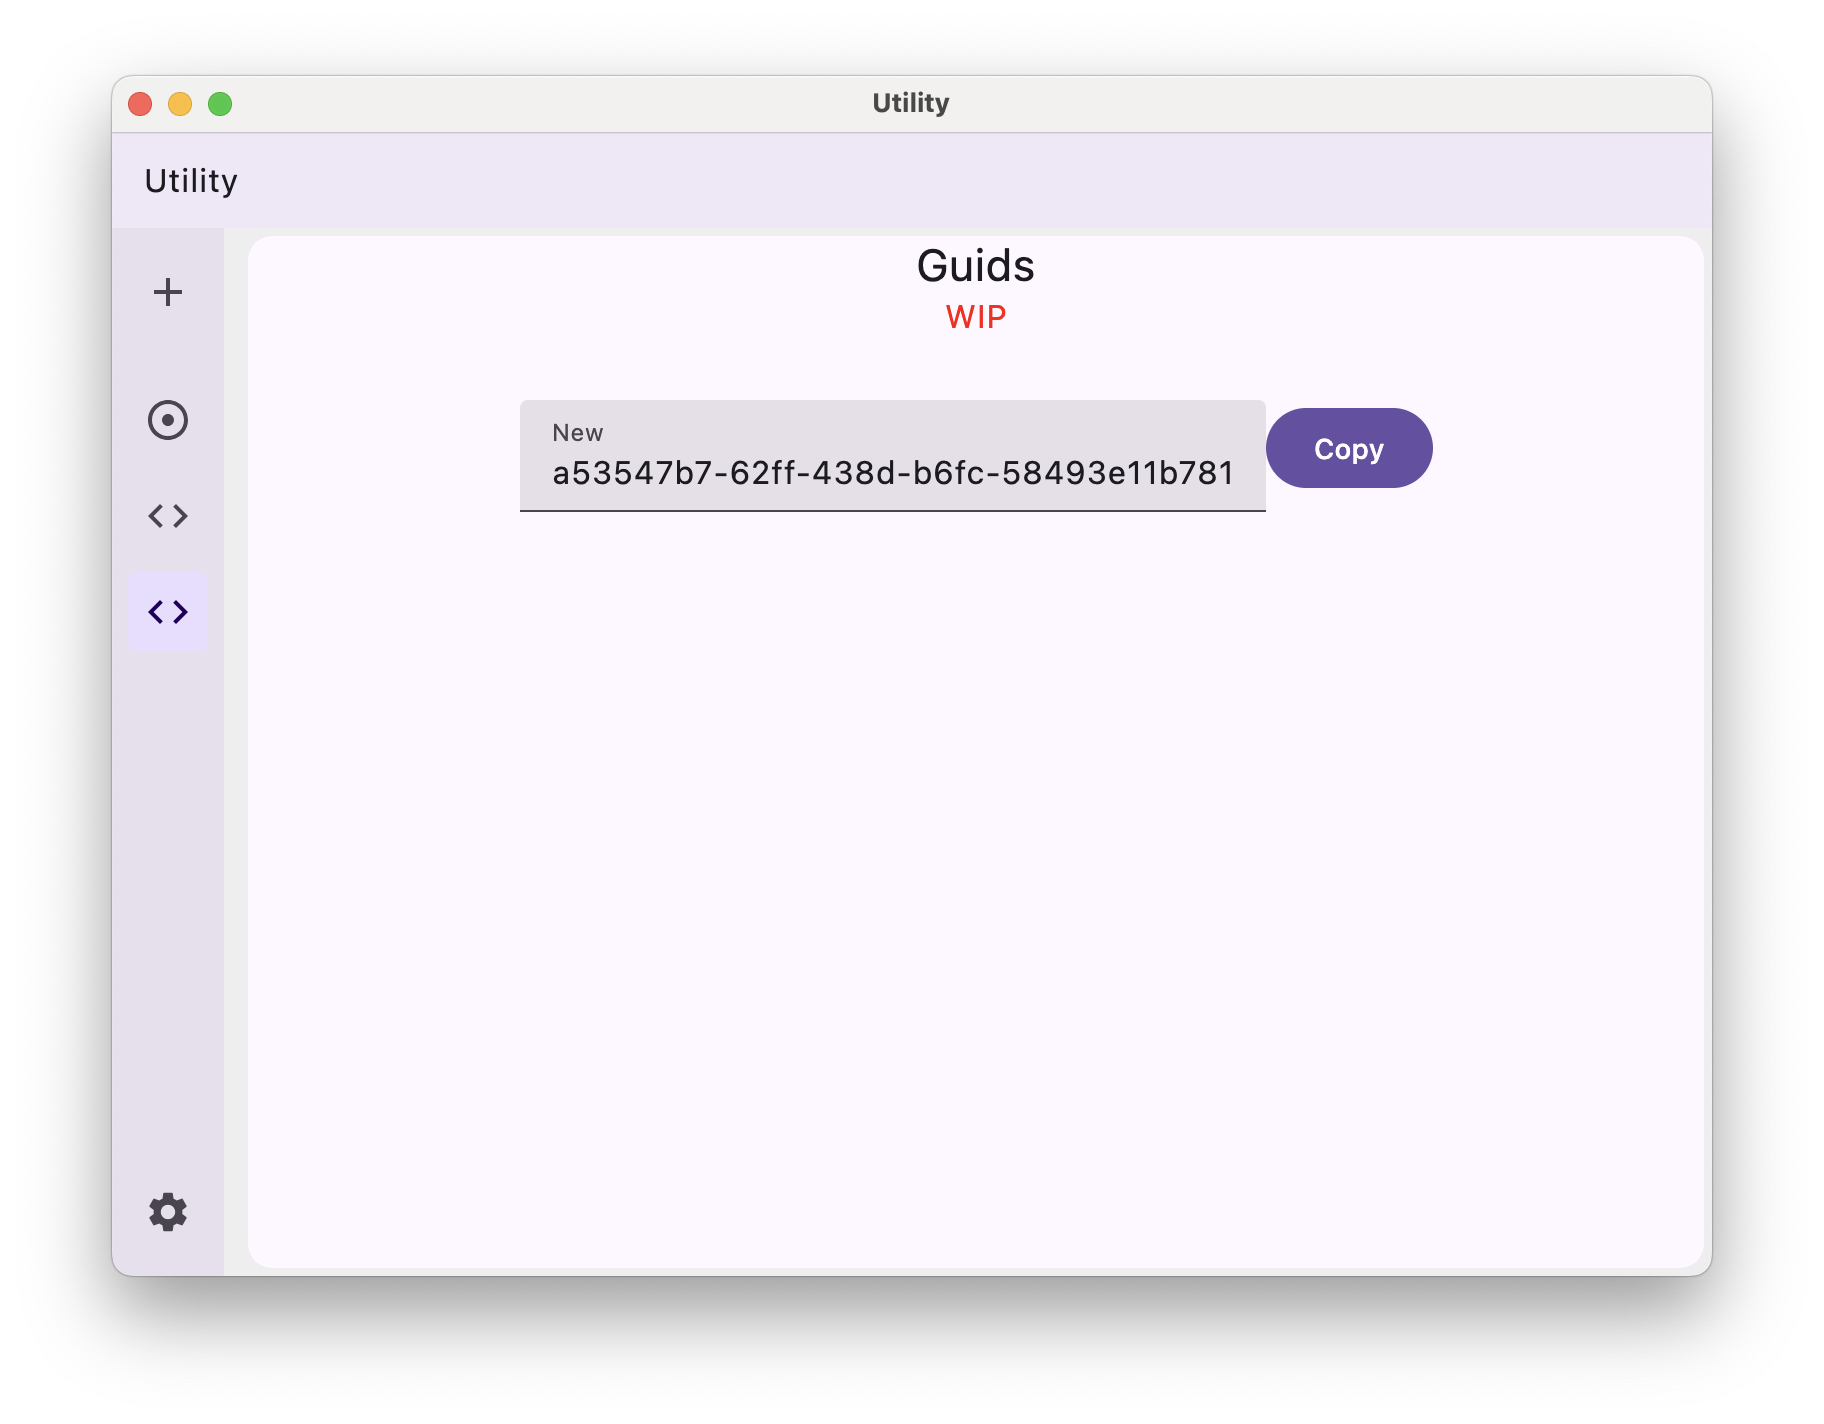
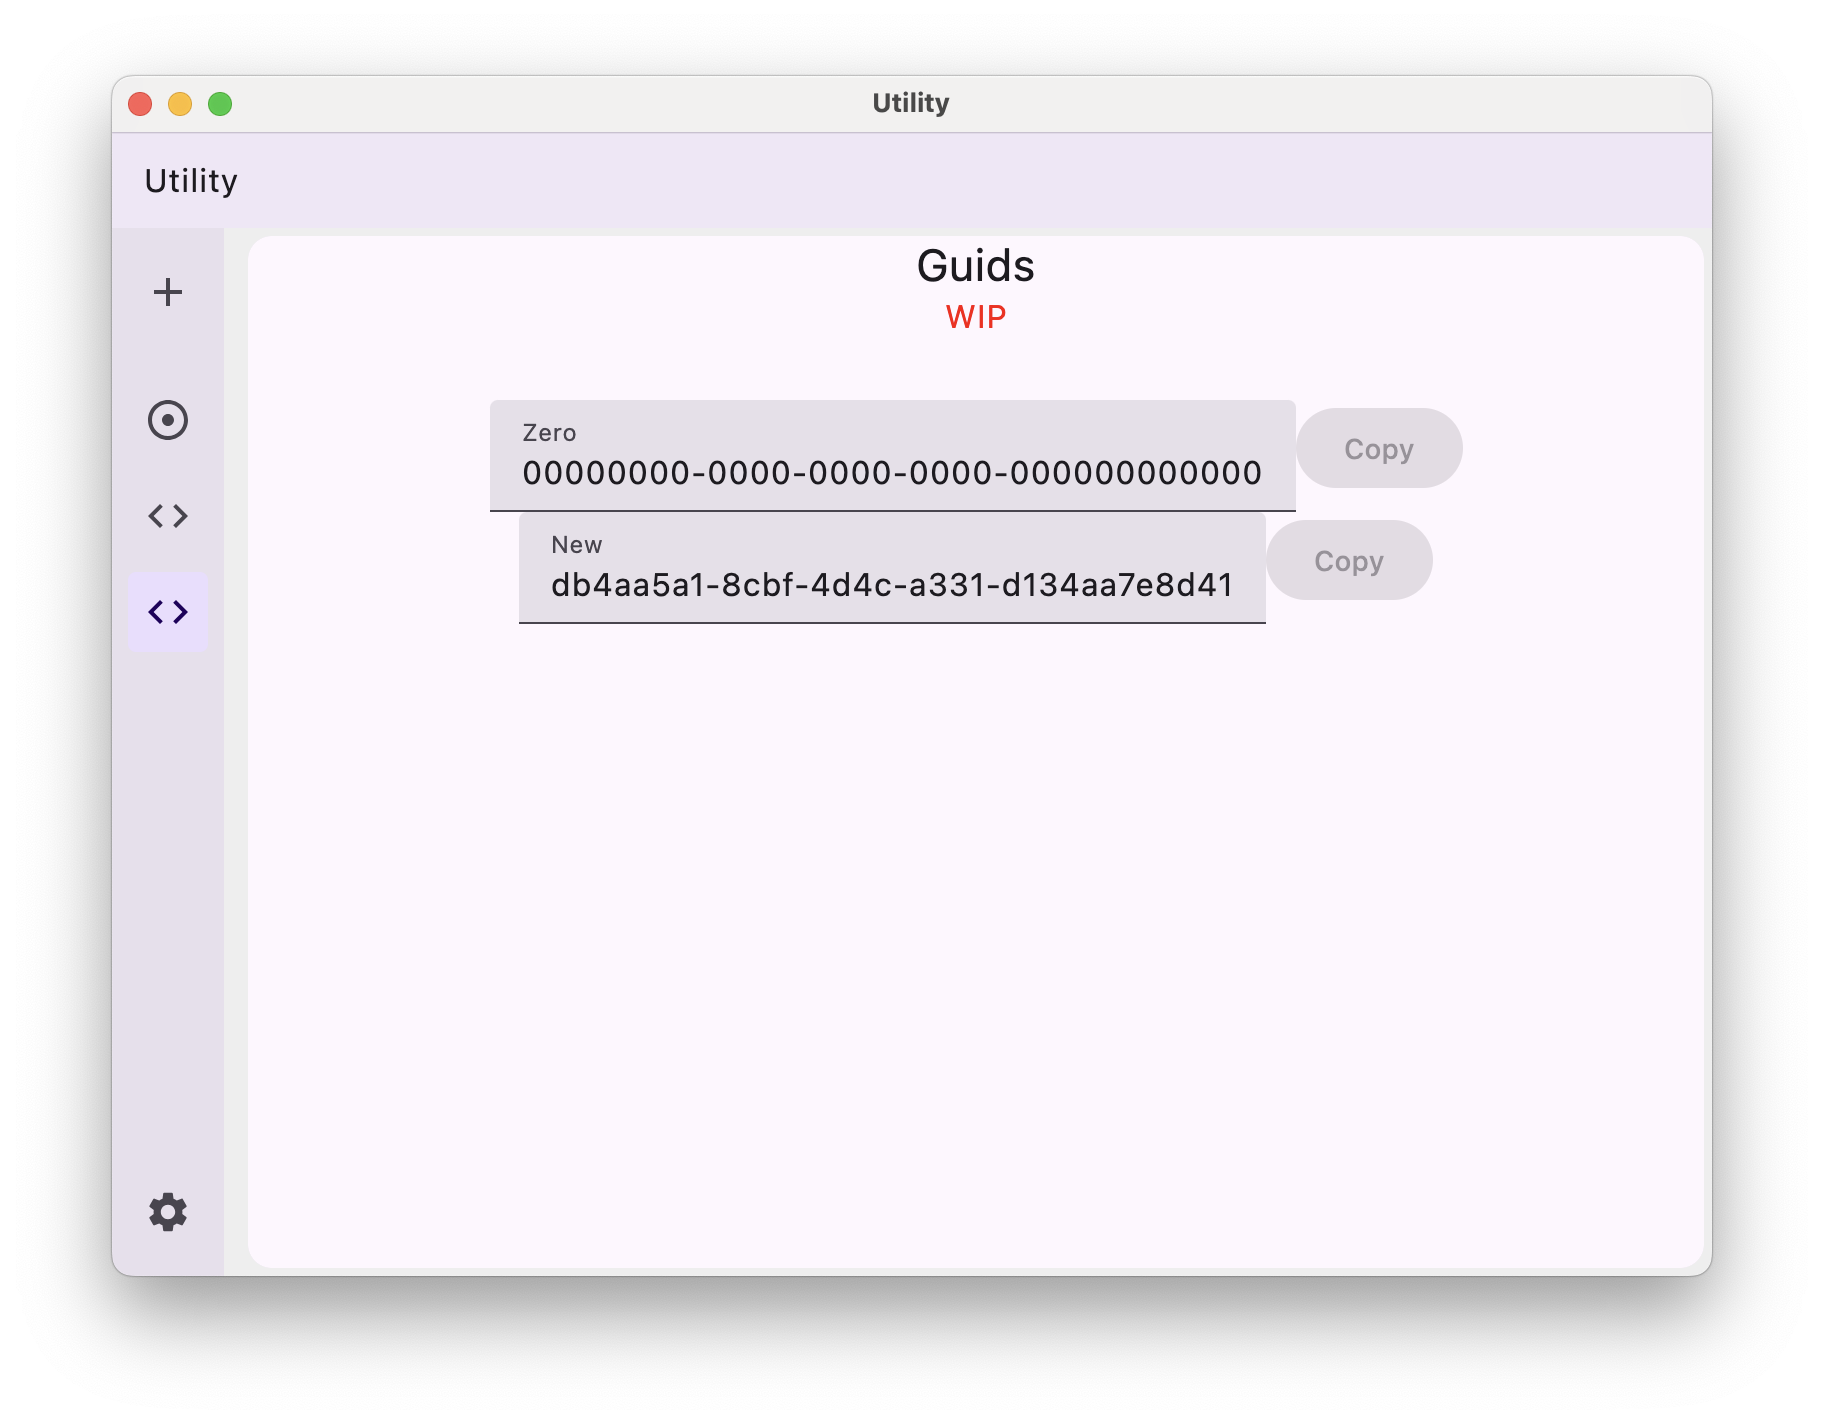
#12 add Zero guid, disable button(s)

Changed region(s): [[0.2812, 0.2781, 0.8125, 0.4326]]

diff --git a/src/composeApp/src/commonMain/kotlin/com/alexhedley/components/GuidView.kt b/src/composeApp/src/commonMain/kotlin/com/alexhedley/components/GuidView.kt
@@ -30,6 +30,7 @@ fun GuidView() {
     val clipboard = LocalClipboard.current
     var guid by remember { mutableStateOf("") }
     guid = Uuid.random().toString()
+    var guidZero by remember { mutableStateOf("00000000-0000-0000-0000-000000000000") }
 
     MaterialTheme {
         Column(
@@ -46,9 +47,35 @@ fun GuidView() {
             Row() {
                 Column() {
                     TextField(
+                        guidZero,
+                        onValueChange = { },
+                        placeholder = { Text(guidZero) },
+                        label = { Text("Zero") },
+                        readOnly = true
+                    )
+                }
+                Column() {
+                    Button(
+                        onClick = {
+                            // https://youtrack.jetbrains.com/issue/CMP-7624
+//                            clipboard.setText(AnnotatedString((guid)))
+//                            clipboard.getText()?.text?.let {
+//                                guid = it
+//                            }
+                        },
+                        enabled = false
+                    ){
+                        Text("Copy")
+                    }
+                }
+            }
+
+            Row() {
+                Column() {
+                    TextField(
                         guid,
                         onValueChange = { guid = it },
-                        placeholder = { Text("00000000-0000-0000-0000-000000000000") },
+                        placeholder = { Text(guidZero) },
                         label = { Text("New") }
                     )
                 }
@@ -60,7 +87,8 @@ fun GuidView() {
 //                            clipboard.getText()?.text?.let {
 //                                guid = it
 //                            }
-                        }
+                        },
+                        enabled = false
                     ){
                         Text("Copy")
                     }
